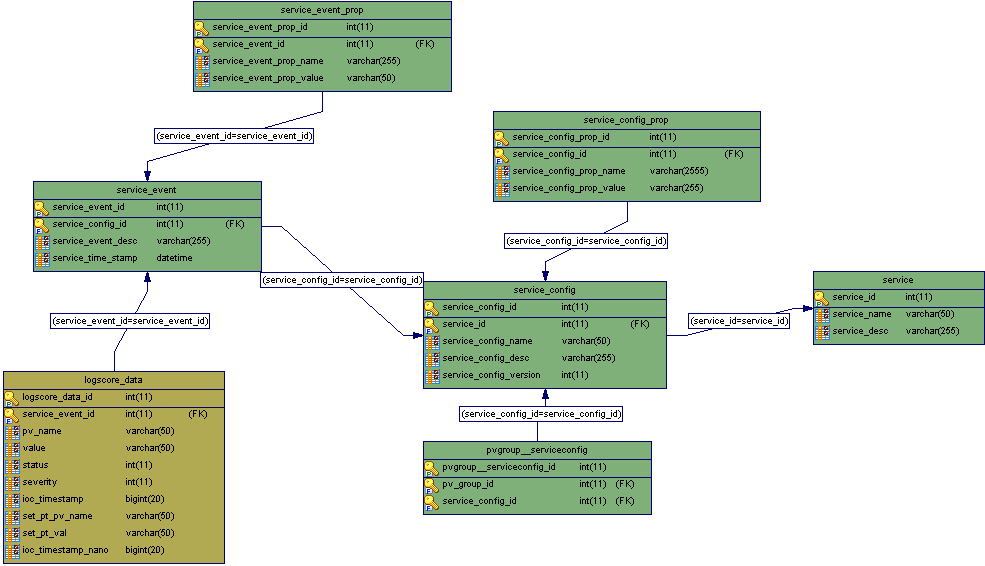
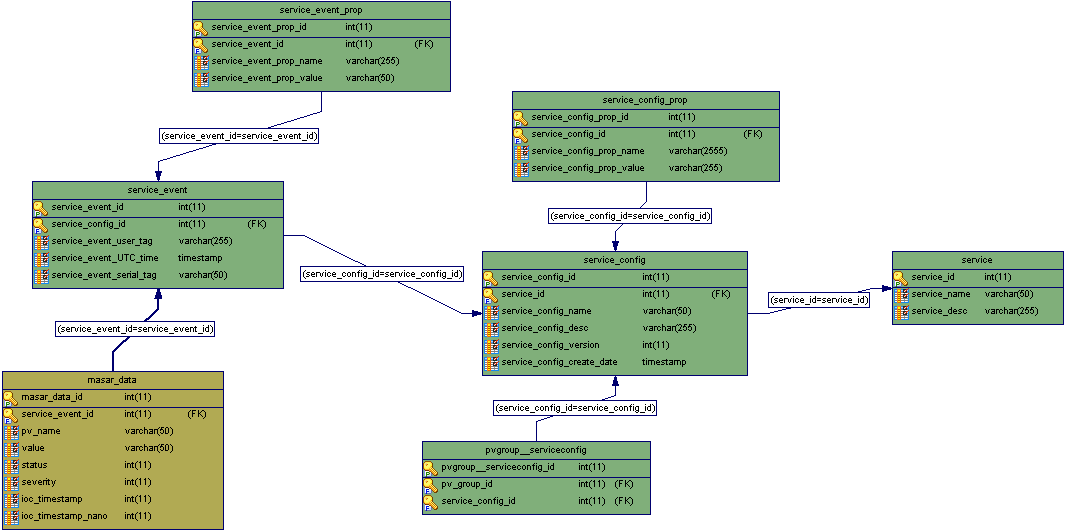
refactoring the DSL interface

Changed region(s): [[0.0, 0.2109, 1.0, 1.0], [0.1827, 0.0, 0.7919, 0.3616]]

diff --git a/documentation/masar.html b/documentation/masar.html
@@ -99,7 +99,7 @@ different times. </p>
 <table>
   <tbody>
     <tr>
-      <td><img src="masar/masar.png" width="360" height="280"></td>
+      <td><img src="masar/masar.png" width="360" height="340"></td>
     </tr>
     <tr>
       <td style="text-align:center">MASAR Architecture</td>
@@ -112,11 +112,15 @@ The underneath IRMIS database schemas are shown as below:
 <table>
   <tbody>
     <tr>
-      <td><img src="masar/masar-irmis.png" width="480" height="360"></td>
-      <td><img src="masar/pvgroup-irmis.png" width="480" height="360"></td>
+      <td><img src="masar/masar-irmis.png" width="720" height="360"></td>
     </tr>
     <tr>
       <td style="text-align:center">IRMIS-MASAR database schema</td>
+    </tr>
+    <tr>
+      <td><img src="masar/pvgroup-irmis.png" width="480" height="360"></td>
+    </tr>
+    <tr>
       <td style="text-align:center">IRMIS-PVGROUP database schema</td>
     </tr>
   </tbody>
@@ -570,7 +574,16 @@ Layer</h4>
 <pre>API: NTTable = get(string [] chanNames)</pre>
 
 <h3 style="text-align:center;margin-left:auto;margin-right:auto;">Reference</h3>
+<ol>
+<li>
 <a
-href="http://sourceforge.net/mailarchive/forum.php?thread_name=108684FE-8BDA-41C2-BB31-928B932139EA%40psi.ch&amp;forum_name=epics-pvdata-devel">[1]:
-Normative Types of EPICS v4 </a> </body>
+href="http://epics-pvdata.sourceforge.net/">EPICS v4 </a>
+</li>
+<li>
+<a
+href="http://epics-pvdata.sourceforge.net/alpha/normativeTypes/normativeTypes.html">
+Normative Types of EPICS v4 </a> 
+</li>
+</ol>
+</body>
 </html>

diff --git a/cpp/src/server/dslPY/dslPY.cpp b/cpp/src/server/dslPY/dslPY.cpp
@@ -21,27 +21,27 @@ namespace epics { namespace masar {
 
 using namespace epics::pvData;
 
-class DSL_IRMIS :
+class DSL_RDB :
     public DSL,
-    public std::tr1::enable_shared_from_this<DSL_IRMIS>
+    public std::tr1::enable_shared_from_this<DSL_RDB>
 {
 public:
-    POINTER_DEFINITIONS(DSL_IRMIS);
-    DSL_IRMIS();
-    virtual ~DSL_IRMIS();
+    POINTER_DEFINITIONS(DSL_RDB);
+    DSL_RDB();
+    virtual ~DSL_RDB();
     virtual void destroy();
     virtual PVStructure::shared_pointer request(
          PVStructure::shared_pointer const & pvArgument);
     bool init();
 private:
-    DSL_IRMIS::shared_pointer getPtrSelf()
+    DSL_RDB::shared_pointer getPtrSelf()
     {
         return shared_from_this();
     }
     PyObject * prequest;
 };
 
-DSL_IRMIS::DSL_IRMIS()
+DSL_RDB::DSL_RDB()
 : prequest(0)
 {
    PyThreadState *py_tstate = NULL;
@@ -51,7 +51,7 @@ DSL_IRMIS::DSL_IRMIS()
    PyEval_ReleaseThread(py_tstate);
 }
 
-DSL_IRMIS::~DSL_IRMIS()
+DSL_RDB::~DSL_RDB()
 {
     PyGILState_STATE gstate = PyGILState_Ensure();
         if(prequest!=0) Py_XDECREF(prequest);
@@ -60,21 +60,21 @@ DSL_IRMIS::~DSL_IRMIS()
     Py_Finalize();
 }
 
-bool DSL_IRMIS::init()
+bool DSL_RDB::init()
 {
     PyGILState_STATE gstate = PyGILState_Ensure();
-        PyObject * module = PyImport_ImportModule("dslPYIRMIS");
+        PyObject * module = PyImport_ImportModule("dslPY");
         if(module==0) {
-            String message("dslPYIRMIS");
+            String message("dslPY");
             message += " does not exist or is not a python module";
-            printf("DSL_IRMIS::init %s\n",message.c_str());
+            printf("DSL_RDB::init %s\n",message.c_str());
             return false;
         }
         PyObject *pclass = PyObject_GetAttrString(module, "DSL");
         if(pclass==0) {
             String message("class DSL");
             message += " does not exist";
-            printf("DSL_IRMIS::init %s\n",message.c_str());
+            printf("DSL_RDB::init %s\n",message.c_str());
             Py_XDECREF(module);
             return false;
         }
@@ -89,7 +89,7 @@ bool DSL_IRMIS::init()
         if(pinstance==0) {
             String message("class DSL");
             message += " constructor failed";
-            printf("DSL_IRMIS::init %s\n",message.c_str());
+            printf("DSL_RDB::init %s\n",message.c_str());
             Py_XDECREF(pclass);
             Py_XDECREF(module);
             return false;
@@ -98,7 +98,7 @@ bool DSL_IRMIS::init()
         if(prequest==0) {
             String message("DSL::request");
             message += " could not attach to method";
-            printf("DSL_IRMIS::init %s\n",message.c_str());
+            printf("DSL_RDB::init %s\n",message.c_str());
             Py_XDECREF(pinstance);
             Py_XDECREF(pclass);
             Py_XDECREF(module);
@@ -111,9 +111,9 @@ bool DSL_IRMIS::init()
     return true;
 }
 
-void DSL_IRMIS::destroy() {}
+void DSL_RDB::destroy() {}
 
-PVStructure::shared_pointer DSL_IRMIS::request(
+PVStructure::shared_pointer DSL_RDB::request(
              PVStructure::shared_pointer const & pvArgument)
 {
     char * xxx = 0;
@@ -135,15 +135,15 @@ PVStructure::shared_pointer DSL_IRMIS::request(
     return pvArgument;
 }
 
-DSL::shared_pointer createDSL_IRMIS()
+DSL::shared_pointer createDSL_RDB()
 {
-   DSL_IRMIS *dsl = new DSL_IRMIS();
+   DSL_RDB *dsl = new DSL_RDB();
    if(!dsl->init()) {
         delete dsl;
-        return DSL_IRMIS::shared_pointer();
+        return DSL_RDB::shared_pointer();
         
    }
-   return DSL_IRMIS::shared_pointer(dsl);
+   return DSL_RDB::shared_pointer(dsl);
 }
 
 }}

diff --git a/cpp/src/server/service/masarService.cpp b/cpp/src/server/service/masarService.cpp
@@ -29,7 +29,7 @@ using namespace epics::pvAccess;
 using namespace epics::pvIOC;
 
 MasarService::MasarService()
-: dslIrmis(createDSL_IRMIS())
+: dslRdb(createDSL_RDB())
 {}
 
 MasarService::~MasarService()
@@ -60,11 +60,11 @@ void MasarService::request(
     } else {
         channelRPCRequester->message("illegal argument",errorMessage);
     }
-    // Now what to do? What to pass to dslIrmis?
-    PVStructure::shared_pointer result = dslIrmis->request(pvArgument);
+    // Now what to do? What to pass to dslRdb?
+    PVStructure::shared_pointer result = dslRdb->request(pvArgument);
     // GUOBAO WHAT TO DO?
     // Following just makes up an NTTable
-    // You start with this and dslPYIRMIS
+    // You start with this and dslPY
 
     FieldCreate * fieldCreate = getFieldCreate();
     NTField *ntField = NTField::get();

diff --git a/cpp/src/server/dslPY/dslPY.h b/cpp/src/server/dslPY/dslPY.h
@@ -1,4 +1,4 @@
-/* dslPYIRMIS.h */
+/* dslPY.h */
 /**
  * Copyright - See the COPYRIGHT that is included with this distribution.
  * EPICS pvDataCPP is distributed subject to a Software License Agreement found
@@ -8,8 +8,8 @@
  */
 /* Author Marty Kraimer 2011.11 */
 
-#ifndef DSLPYIRMIS_H
-#define DSLPYIRMIS_H
+#ifndef DSLPY_H
+#define DSLPY_H
 
 #include <string>
 #include <stdexcept>
@@ -26,9 +26,9 @@ namespace epics { namespace masar{
  * Note that an application can only use a single implementation
  * of DSL. Thus each implementation must have a separate shared library
  */
-extern DSL::shared_pointer createDSL_IRMIS();
+extern DSL::shared_pointer createDSL_RDB();
 
 }}
-#endif  /* DSLPYIRMIS_H */
+#endif  /* DSLPY_H */
 
 

diff --git a/cpp/test/testCallPY/testCallPY.cpp b/cpp/test/testCallPY/testCallPY.cpp
@@ -15,7 +15,7 @@
 #include <pv/pvIntrospect.h>
 #include <pv/pvData.h>
 
-#include <pv/dslPYIRMIS.h>
+#include <pv/dslPY.h>
 
 using namespace epics::pvData;
 using namespace epics::masar;
@@ -44,7 +44,7 @@ static StructureConstPtr createStructure()
 
 int main(int argc,char *argv[])
 {
-    DSL::shared_pointer dsl = createDSL_IRMIS();
+    DSL::shared_pointer dsl = createDSL_RDB();
     if(dsl.get()==0) {
         printf("createDSL failed\n");
         return -1;

diff --git a/cpp/src/server/service/masarService.h b/cpp/src/server/service/masarService.h
@@ -12,7 +12,7 @@
 #include <memory>
 
 #include <pv/service.h>
-#include <pv/dslPYIRMIS.h>
+#include <pv/dslPY.h>
 
 namespace epics { namespace masar { 
 
@@ -35,7 +35,7 @@ private:
     {
         return shared_from_this();
     }
-    DSL::shared_pointer dslIrmis;
+    DSL::shared_pointer dslRdb;
 };
 
 }}
